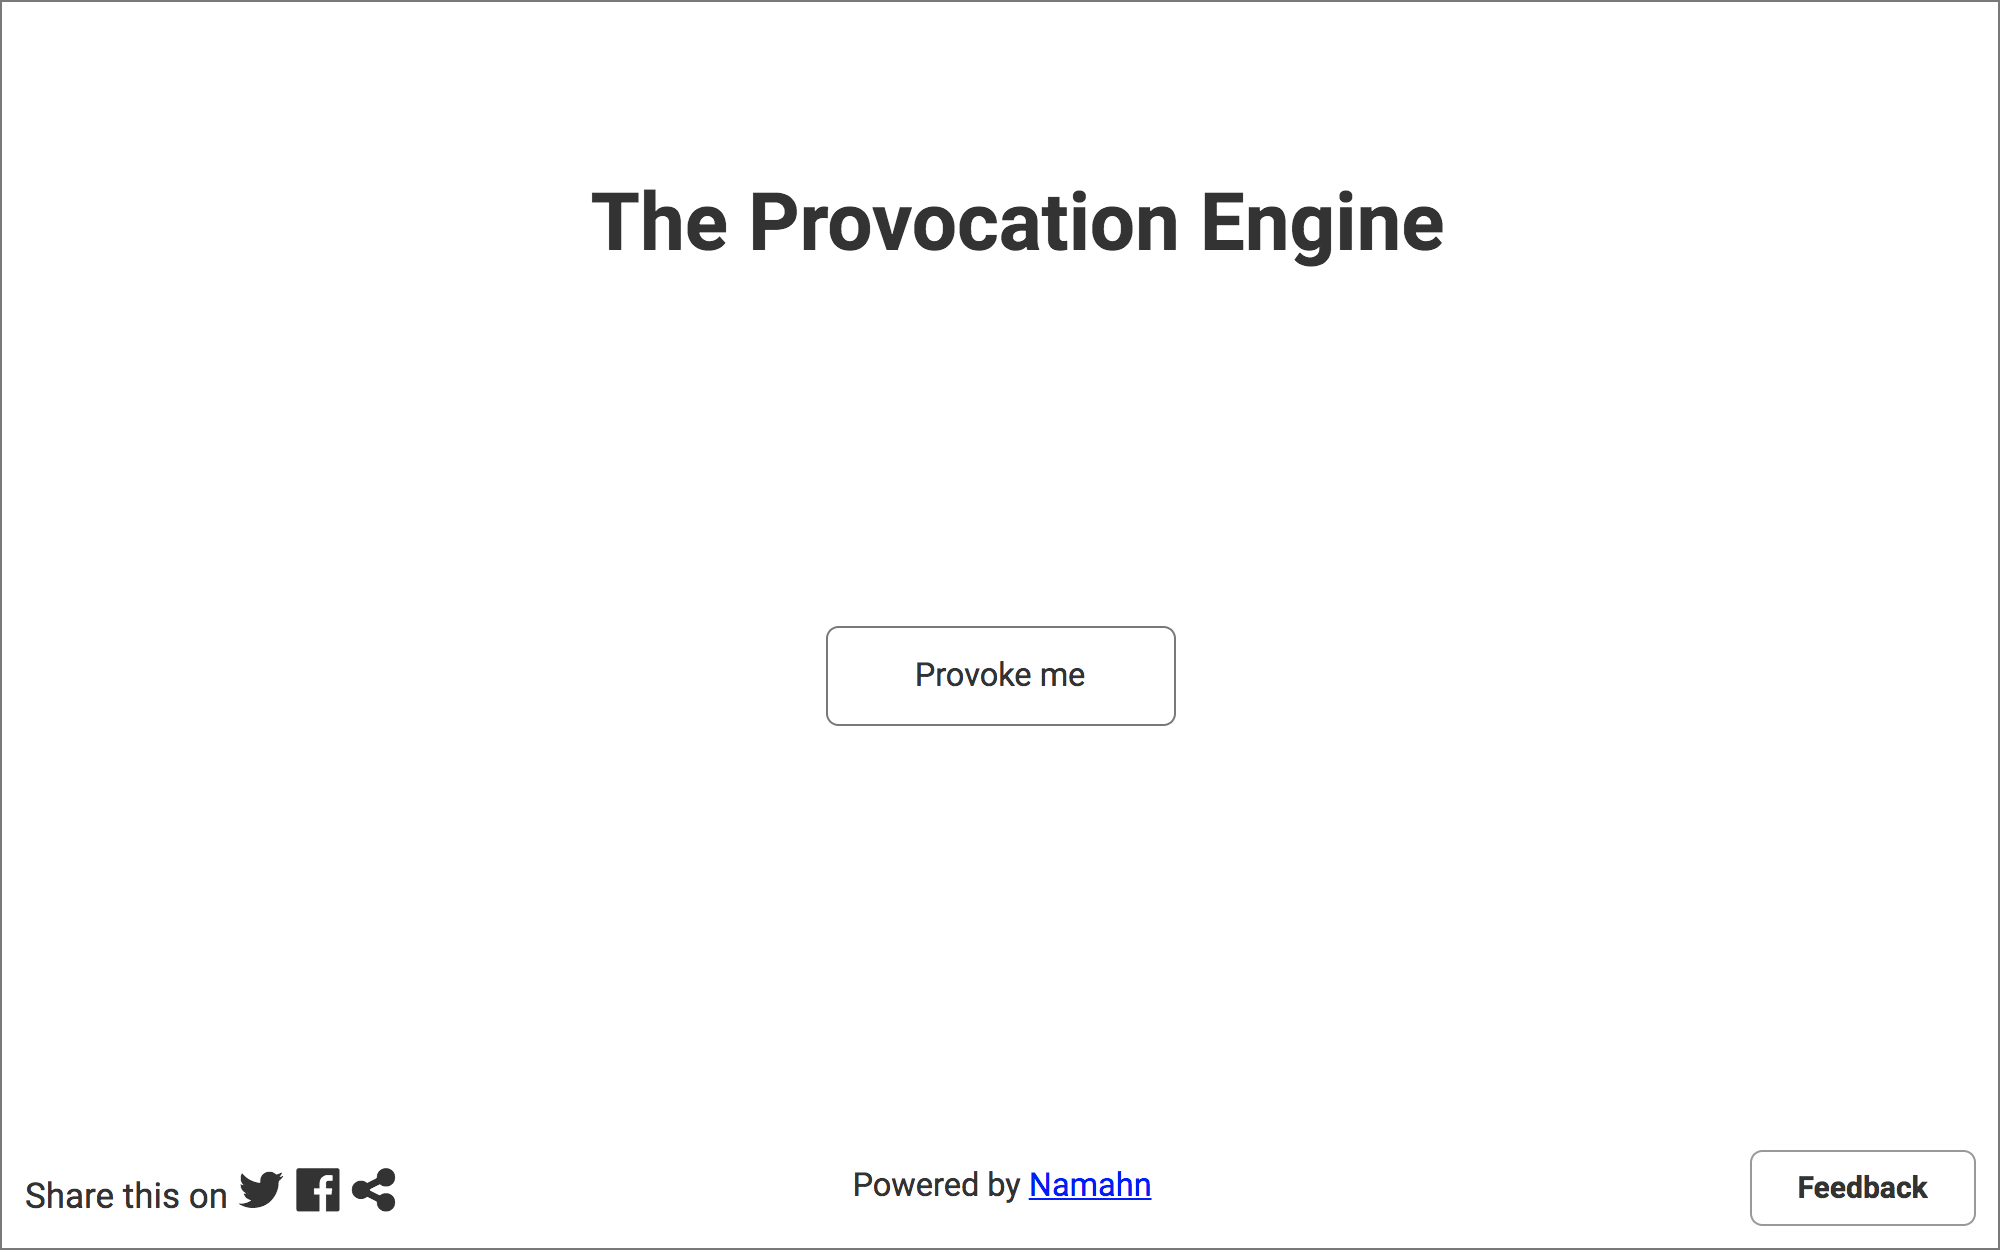
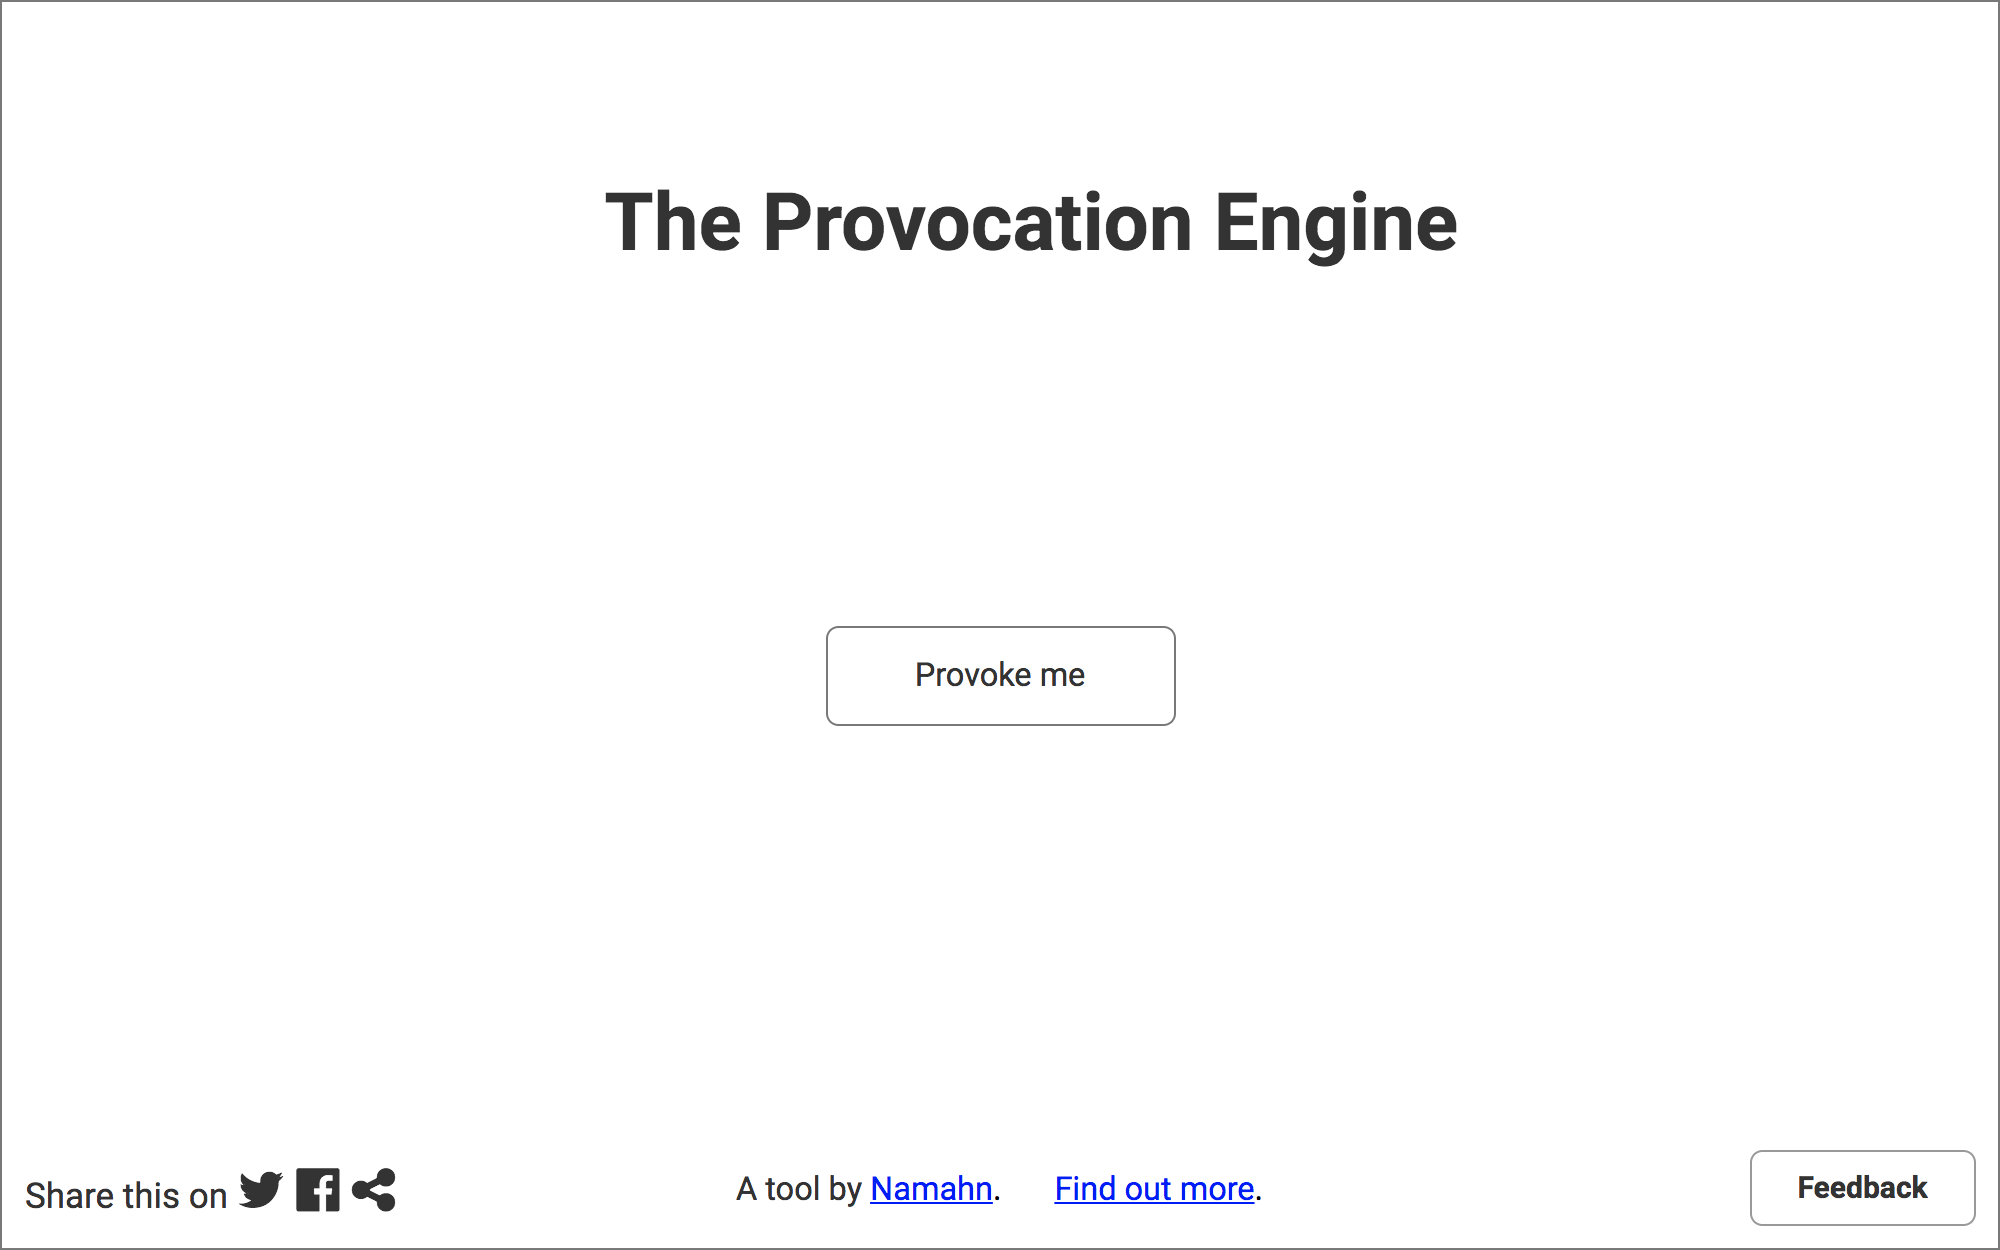
added "find out more"

Changed region(s): [[0.279, 0.156, 0.744, 0.2184], [0.372, 0.936, 0.62, 0.9672]]

diff --git a/html/index.html b/html/index.html
@@ -26,7 +26,7 @@
             Share this on...
         </div>
         <div class="footeritem" id="powered">
-            Powered by <a href="http://www.namahn.com">Namahn</a>
+            Powered by <a href="http://www.namahn.com">Namahn</a>. <a href="#" id="showExplanation">Find out more</a>.
         </div>
         <div class="footeritem" id="feedback">
             <button id="feedbackbutton">Feedback</button>
@@ -47,6 +47,14 @@
             <div id="feedbackthanks">Thanks!</div>
         </div>
     </footer>
+    <div id="explanation">
+        <button id="closeexplanation">x</button>
+        <h1>The Provocation Engine: what and how.</h1>
+        <div id="explanationContent">
+            <p>[content to be provided]</p>
+            <p>Follow us on Facebook, Twitter, Instagram, LinkedIn.</p>
+        </div>
+    </div>
 </body>
 
 </html>

diff --git a/html/script.js b/html/script.js
@@ -47,6 +47,12 @@ document.addEventListener("DOMContentLoaded", function () {
         hide("feedbackform");
         show("feedbackbutton");
     });
+    document.getElementById("closeexplanation").addEventListener("click", function () {
+        hide("explanation");
+    });
+    document.getElementById("showExplanation").addEventListener("click", function () {
+        show("explanation");
+    });
 });
 
 

diff --git a/html/style.css b/html/style.css
@@ -47,3 +47,13 @@ footer {
 #feedbackthanks {
     display: none;
 }
+
+div#explanation {
+    display: none;
+    position: absolute;
+    top: 0;
+    left: 0;
+    width: 100%;
+    height: 100%;
+    background-color: #fff;
+}

diff --git a/specification/README.md b/specification/README.md
@@ -1,7 +1,7 @@
 # What's new
 
 * 9 Nov 2018
-    * Added "Find out more" to [Public-facing home page](public.adoc)
+    * Added "Find out more" to [Public-facing home page](public.adoc) and in html
     * Shuffled files around, included requirements in design document.
     * Added preliminary version of requirements ([database](database.adoc) and [api](api.adoc))
 
